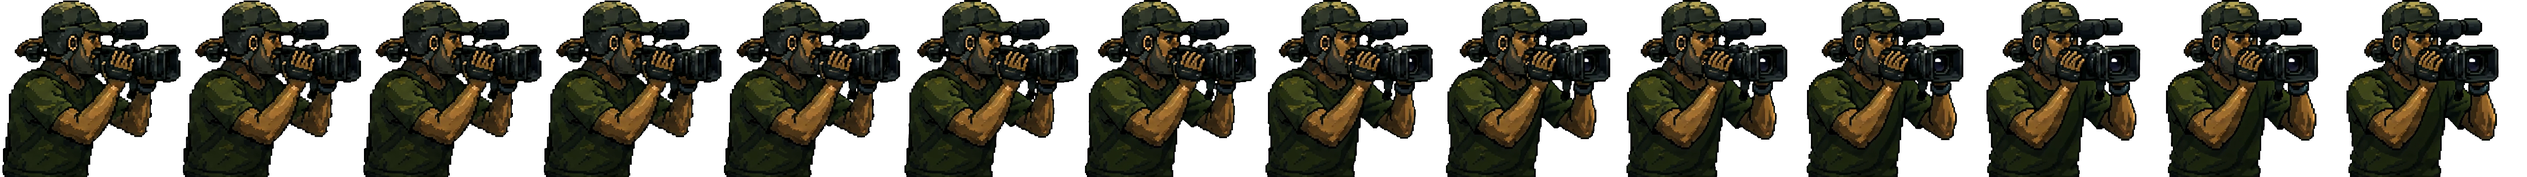
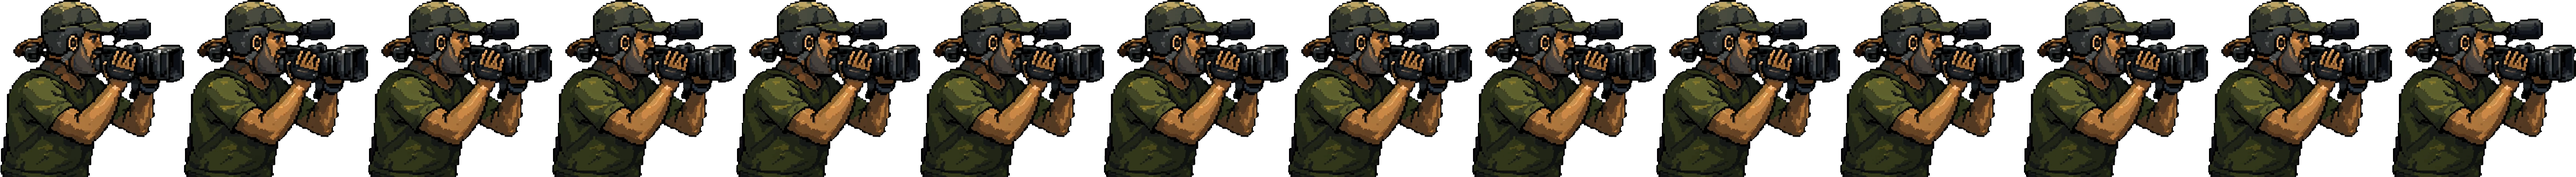
fix(v2): cinegrafistas filmam virados para o ringue (movimento sutil)
- Regerados: antes viravam o corpo para a câmera (de costas pra luta). Novo prompt
  trava o perfil filmando o ringue (esq→direita, dir→esquerda), movimento mínimo.
- frameWidth atualizado (esq 373, dir 320 — bbox menor com o movimento contido).

diff --git a/src/scenes/BootScene.ts b/src/scenes/BootScene.ts
@@ -44,8 +44,8 @@ export class BootScene extends Phaser.Scene {
     this.load.image('arena-cameras', 'imgs/cenario/arena-premium-front.png')
     // Cinegrafistas ANIMADOS (sprite-sheet do vídeo croma-keyed) — cada um ancorado
     // no seu canto inferior. Idle sutil (filmando) via anim com yoyo.
-    this.load.spritesheet('cam-left-anim', 'imgs/cenario/cam-left-sheet.png', { frameWidth: 366, frameHeight: 360 })
-    this.load.spritesheet('cam-right-anim', 'imgs/cenario/cam-right-sheet.png', { frameWidth: 429, frameHeight: 360 })
+    this.load.spritesheet('cam-left-anim', 'imgs/cenario/cam-left-sheet.png', { frameWidth: 373, frameHeight: 360 })
+    this.load.spritesheet('cam-right-anim', 'imgs/cenario/cam-right-sheet.png', { frameWidth: 320, frameHeight: 360 })
 
     // How to Play: arte completa do conceito (painéis + ícones + keycaps + missão).
     this.load.image('how-to-play-full', 'imgs/cenario/how-to-play-full.png')

diff --git a/src/scenes/GameScene.ts b/src/scenes/GameScene.ts
@@ -217,9 +217,9 @@ export class GameScene extends Phaser.Scene {
       this.anims.create({ key: 'cam-right-idle', frames: this.anims.generateFrameNumbers('cam-right-anim', {}), frameRate: 8, repeat: -1, yoyo: true })
     }
     this.add.sprite(0, arenaH, 'cam-left-anim').setOrigin(0, 1).setDepth(1400).setScrollFactor(0)
-      .setDisplaySize(CAM_H * 366 / 360, CAM_H).play('cam-left-idle')
+      .setDisplaySize(CAM_H * 373 / 360, CAM_H).play('cam-left-idle')
     this.add.sprite(this.scale.width, arenaH, 'cam-right-anim').setOrigin(1, 1).setDepth(1400).setScrollFactor(0)
-      .setDisplaySize(CAM_H * 429 / 360, CAM_H).play('cam-right-idle')
+      .setDisplaySize(CAM_H * 320 / 360, CAM_H).play('cam-right-idle')
     this.events.once(Phaser.Scenes.Events.SHUTDOWN, () => {
       if (arenaBg) { arenaBg.style.display = 'none' }
     })
